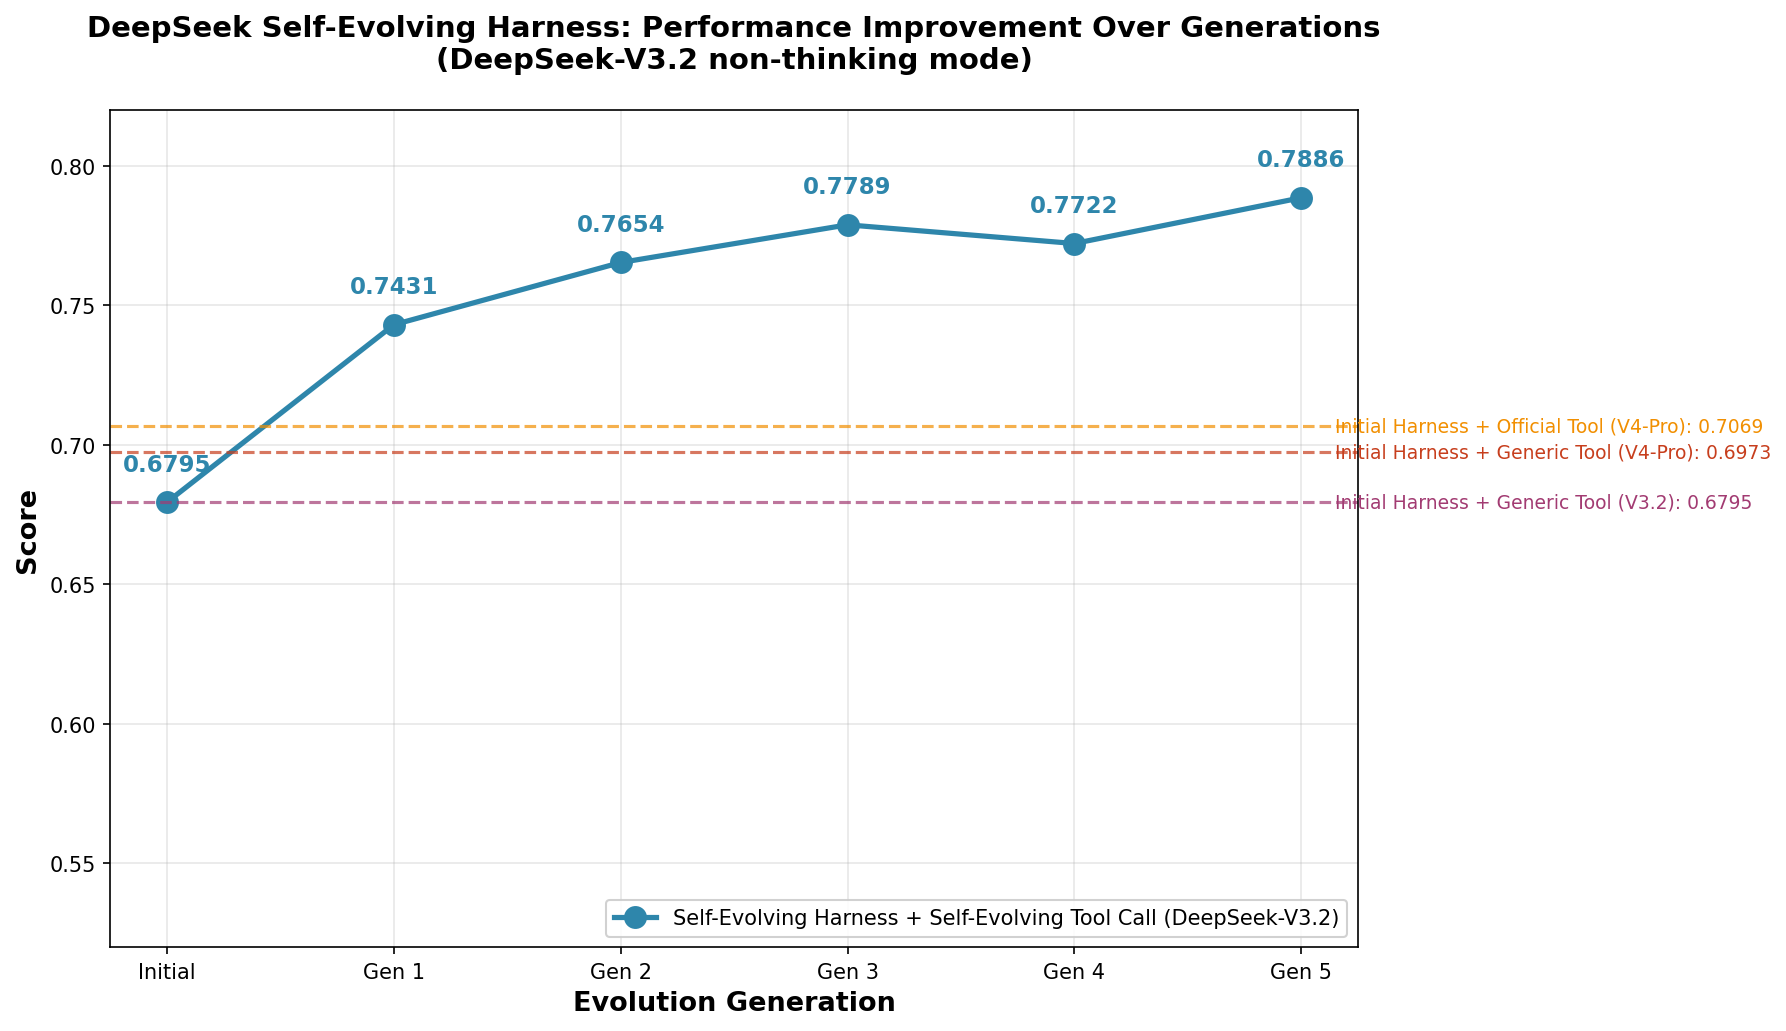
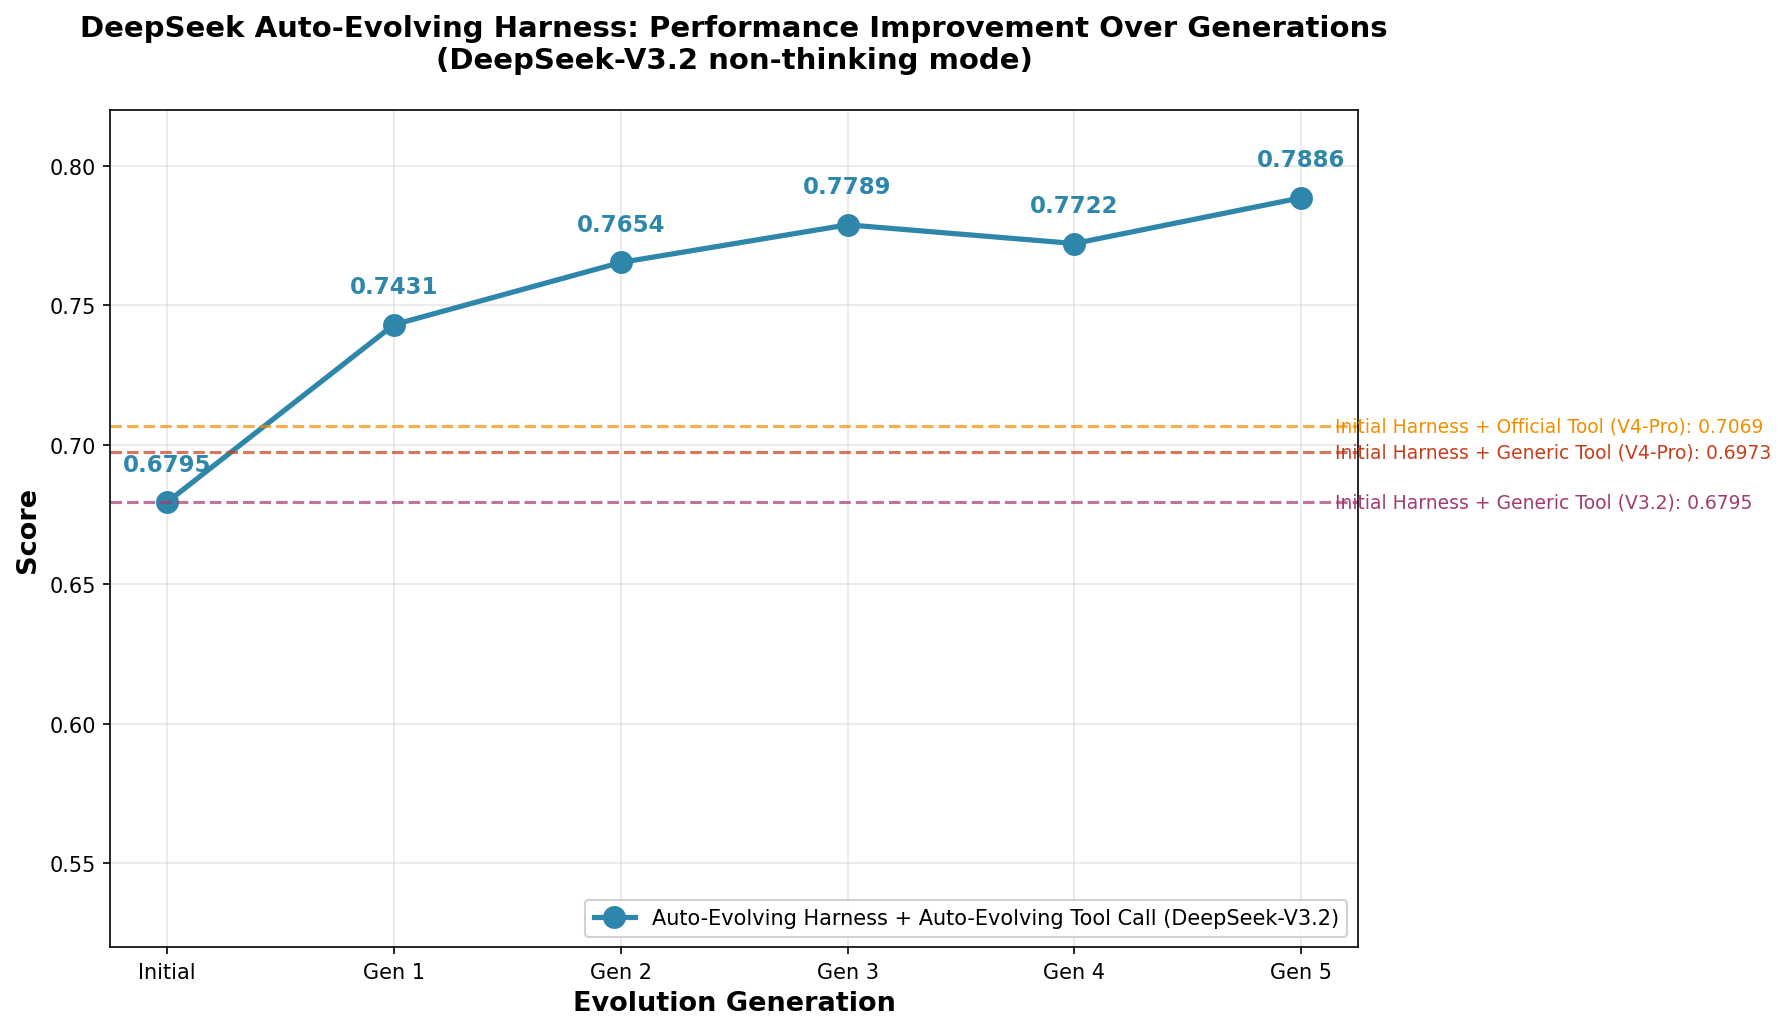
Rename self-evolution to auto-evolution throughout; regenerate chart with Auto-Evolving title

Changed region(s): [[0.0308, 0.0, 0.7699, 0.0621], [0.3387, 0.8691, 0.6467, 0.9001]]

diff --git a/README.md b/README.md
@@ -1,10 +1,10 @@
 # DeepSeek Auto-Evolving Harness
 
-一个简洁优雅的 Python 命令行 Agent，内置基于 Benchmark 的自我进化机制。由 liuchen 制作。
+一个简洁优雅的 Python 命令行 Agent，内置基于 Benchmark 的自动进化机制。由 liuchen 制作。
 
 通用于任何大语言模型——工具调用通过 prompt 注入实现，不依赖 function calling 协议。
 
-## 自进化成果
+## 自动进化成果
 
 ### 分数进步曲线
 
@@ -16,7 +16,7 @@
 |------|------------------------------|------------------------------|------------------------------|
 | 初始 harness + 通用 tool call | 0.6795 | 0.5599 | 0.6973 |
 | 初始 harness + 官方 tool call | - | 0.6629 | 0.7069 |
-| **自进化 harness + 自进化 tool call** | **0.7886** (Gen 5) | - | - |
+| **自动进化 harness + 自动进化 tool call** | **0.7886** (Gen 5) | - | - |
 
 **进化历程** (DeepSeek-V3.2, non-thinking):
 - Initial: 0.6795
@@ -26,7 +26,7 @@
 - Gen 4: 0.7722 (小幅回落)
 - **Gen 5: 0.7886 (+16.1%)**
 
-相比初始 harness，自进化系统在多轮迭代中实现了 **+16.1%** 的绝对分数提升，超越了官方 tool call 配置的 V4-Pro 表现。
+相比初始 harness，自动进化系统在多轮迭代中实现了 **+16.1%** 的绝对分数提升，超越了官方 tool call 配置的 V4-Pro 表现。
 
 ## 特性
 
@@ -40,7 +40,7 @@
 - **会话日志** — 每次对话完整记录到 `sessions/`，方便回溯
 - **提示词可控** — 工具调用的全部提示词暴露在 `prompts.py`，可自由定制
 - **Benchmark 评测** — 内置 117 道评测题，一键跑分验证 agent 能力
-- **自我进化** — 基于 benchmark 结果自动分析失败、改造框架、迭代优化
+- **自动进化** — 基于 benchmark 结果自动分析失败、改造框架、迭代优化
 
 ## 快速开始
 
@@ -96,9 +96,9 @@ benchmark/results/run_20260524_134052/
 
 单个场景超时限制 200 秒，超时自动终止并记零分。
 
-## 自我进化
+## 自动进化
 
-本项目的自我进化过程由 **Claude Code** 在 `self_evolution.md` 的指导下自动完成。进化流程为：
+本项目的自动进化过程由 **Claude Code** 在 `self_evolution.md` 的指导下自动完成。进化流程为：
 
 1. 检查 `benchmark/results/` 中已有的评测结果（按时间戳命名），分析失败任务的问题
 2. 如果没有已有结果，先运行 `python benchmark/run.py` 生成基线
@@ -135,7 +135,7 @@ deepseek-auto-evolving-harness/
 │   ├── custom_checks/  # 评分脚本
 │   ├── harness/        # 评分辅助库
 │   └── results/        # 评测结果输出
-├── self_evolution.md    # 自我进化指南
+├── self_evolution.md    # 自动进化指南
 ├── workspace/           # 默认工作区（创建文件的默认位置）
 ├── memory/             # 长期记忆存储（md 文件）
 ├── sessions/           # 会话日志（JSON）
